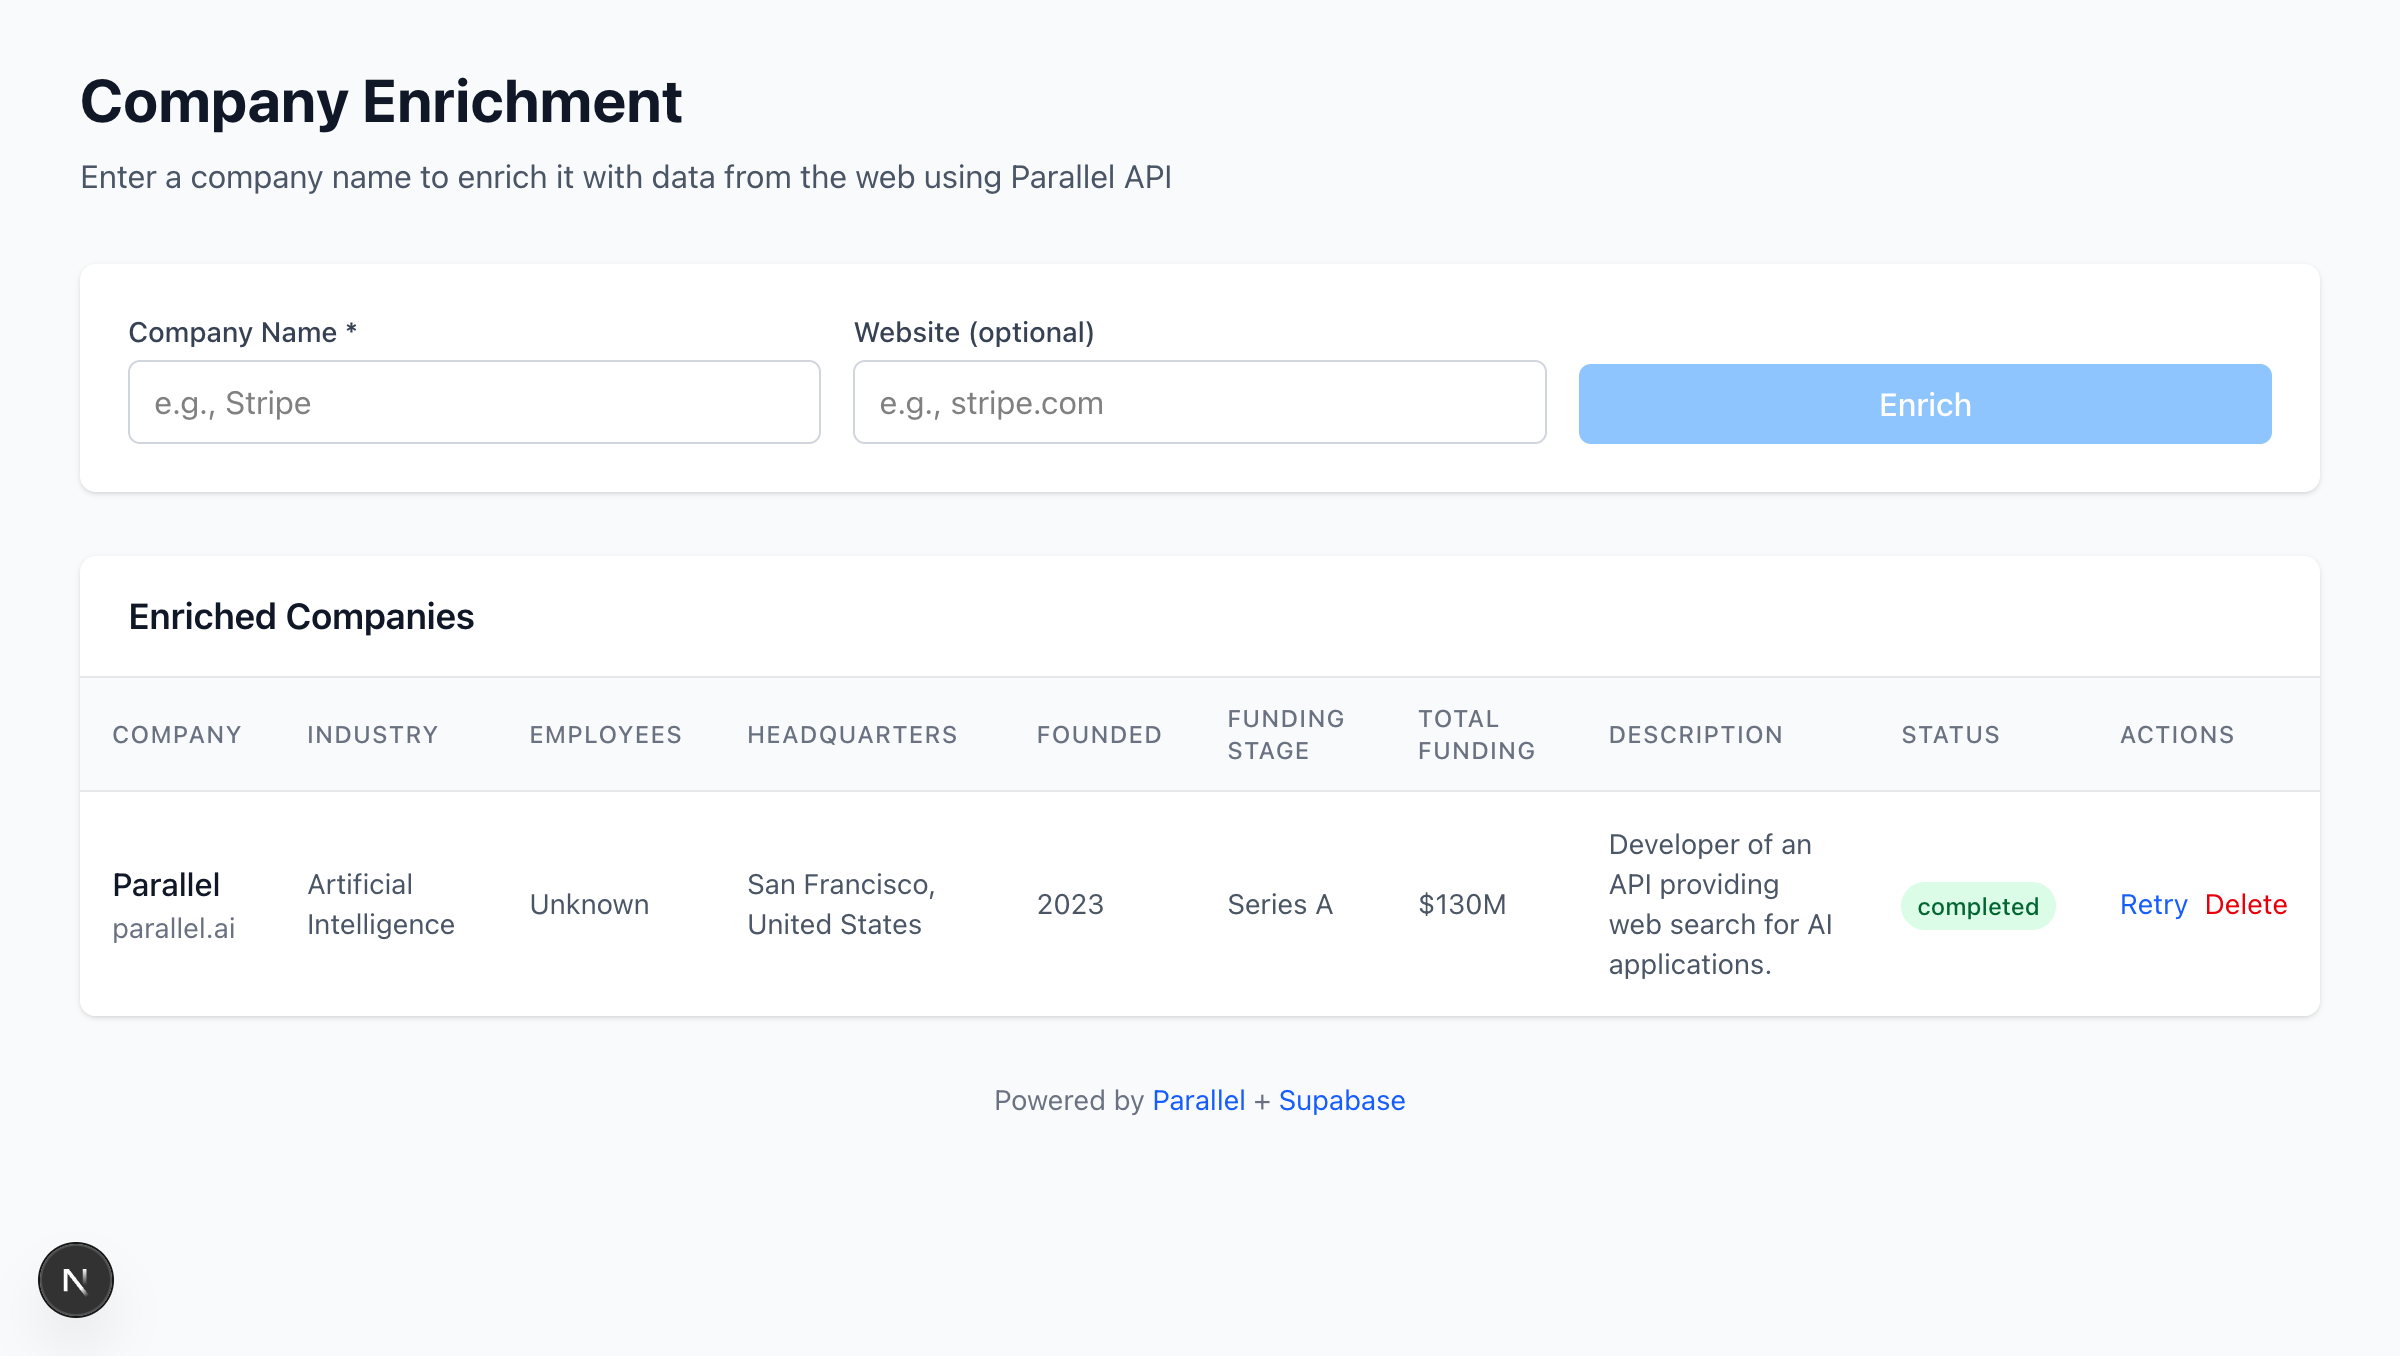
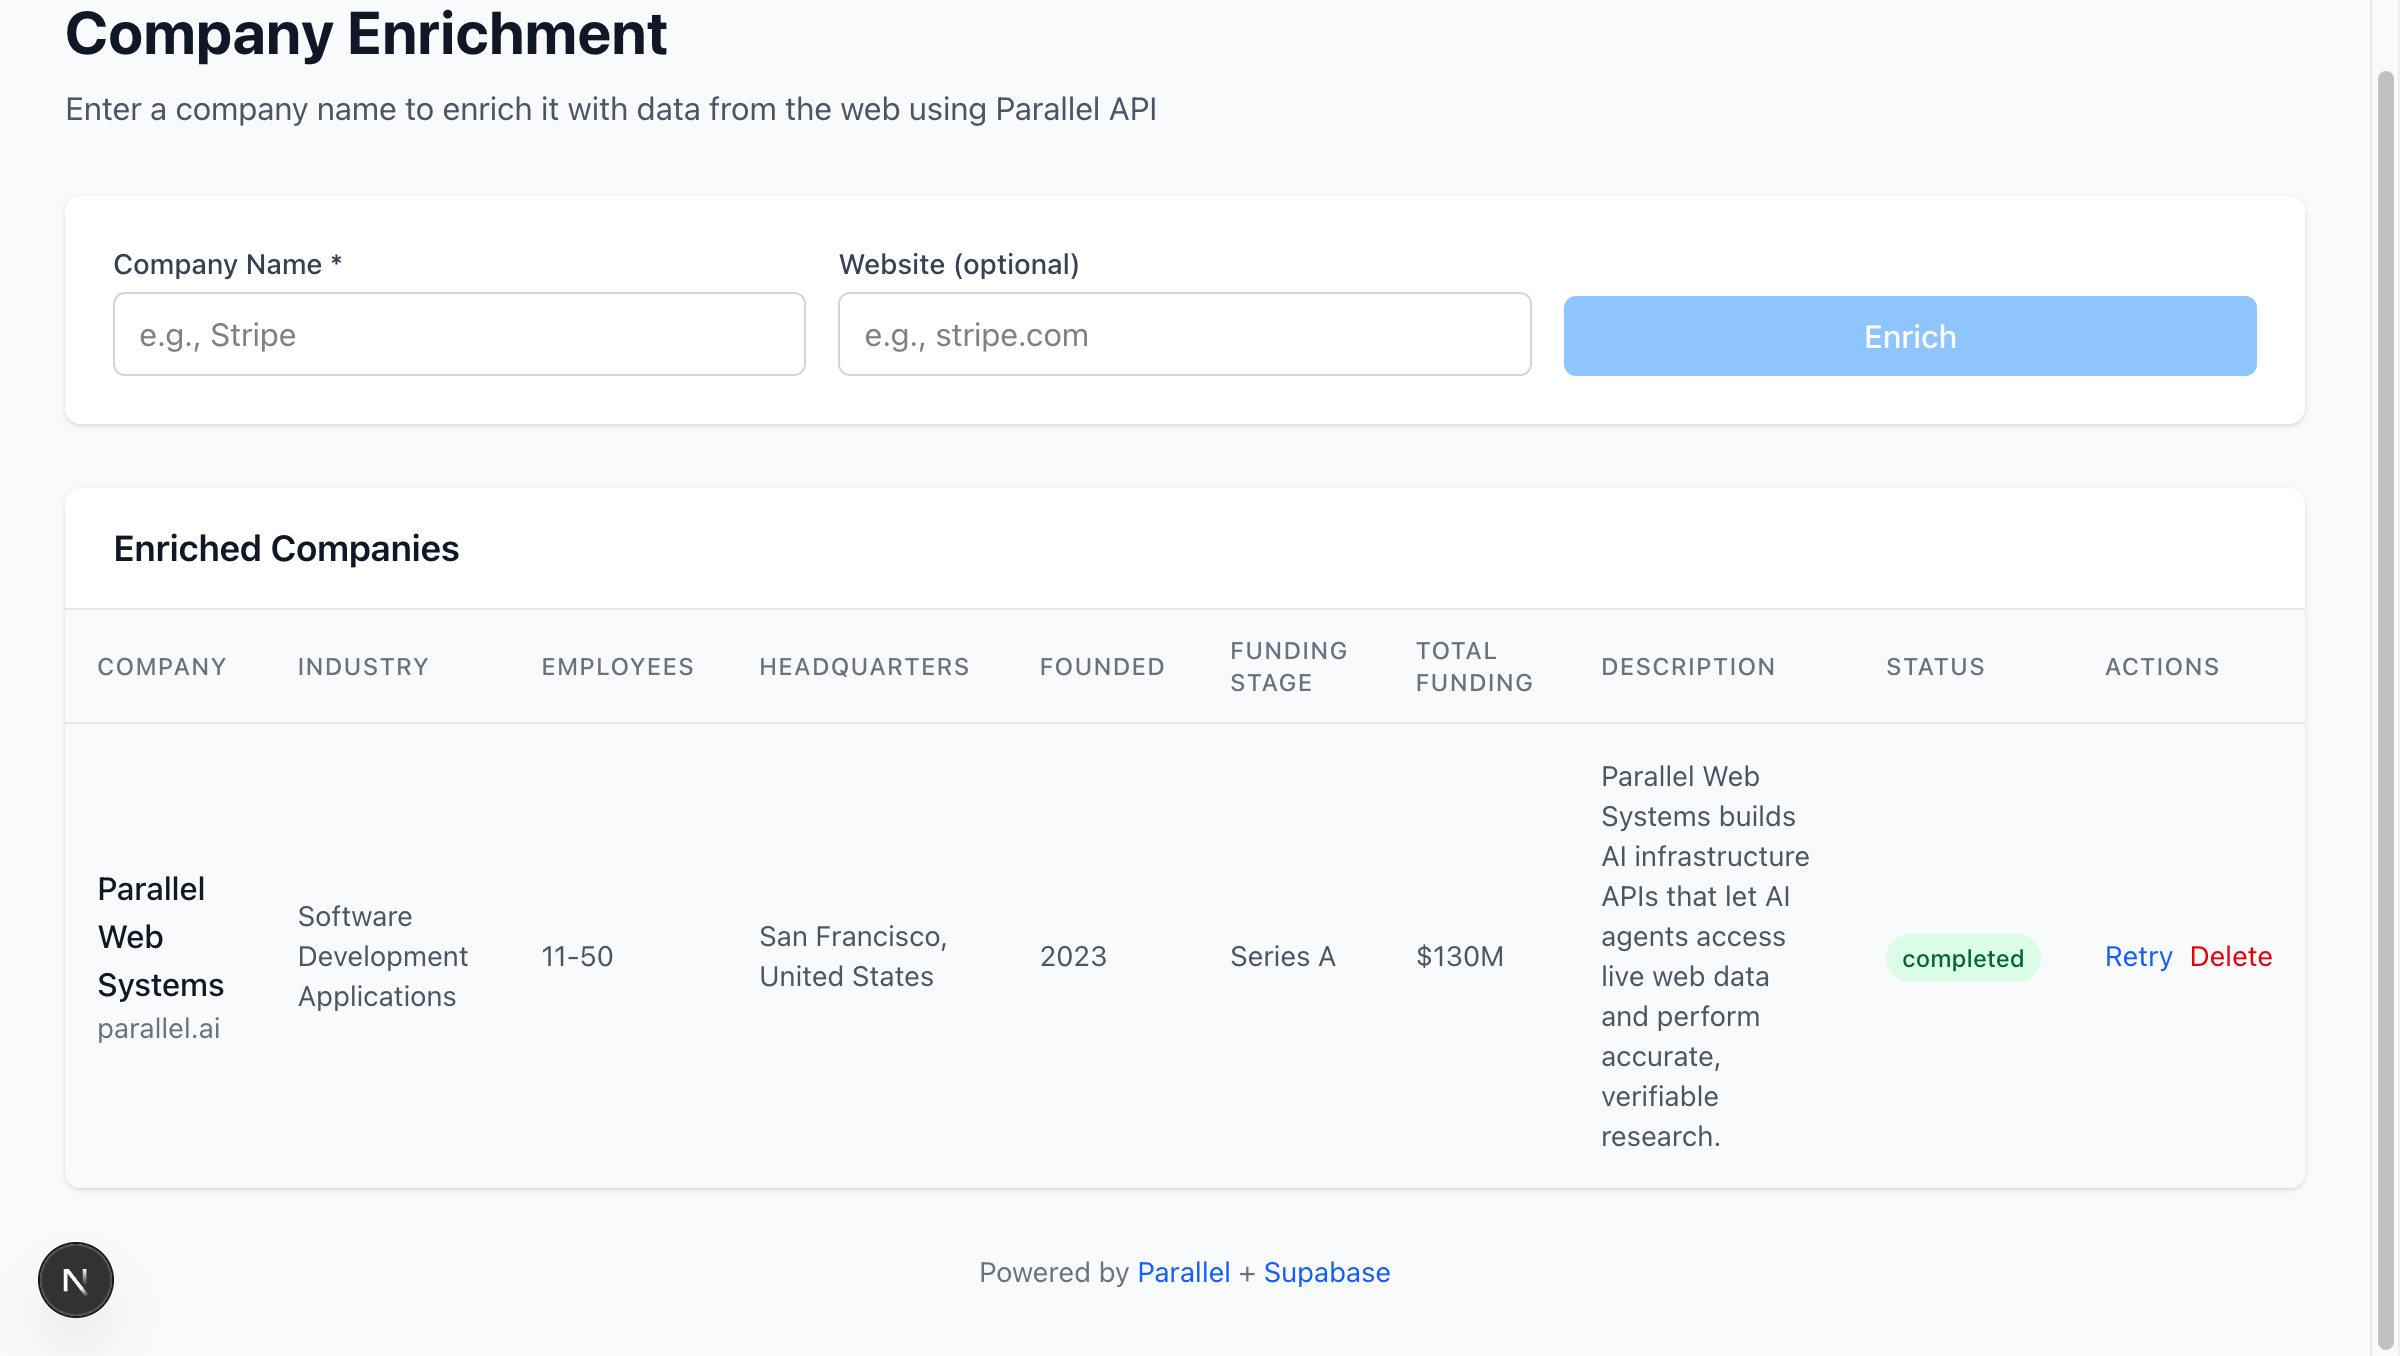
cleanup

diff --git a/typescript-recipes/parallel-supabase-enrichment/supabase/functions/enrich-company/index.ts b/typescript-recipes/parallel-supabase-enrichment/supabase/functions/enrich-company/index.ts
@@ -1,33 +1,10 @@
 import "jsr:@supabase/functions-js/edge-runtime.d.ts";
-import { createClient, SupabaseClient } from "jsr:@supabase/supabase-js@2";
 import Parallel from "npm:parallel-web@0.2.4";
-
-// CORS headers - set APP_URL secret for specific domain, or "*" for all origins
-const corsHeaders = {
-  "Access-Control-Allow-Origin": Deno.env.get("APP_URL") || "*",
-  "Access-Control-Allow-Headers":
-    "authorization, x-client-info, apikey, content-type, x-supabase-client-platform",
-};
+import { jsonResponse, handleCors } from "../_shared/response.ts";
+import { createSupabaseClient } from "../_shared/supabase.ts";
 
 const UUID_REGEX =
   /^[0-9a-f]{8}-[0-9a-f]{4}-[0-9a-f]{4}-[0-9a-f]{4}-[0-9a-f]{12}$/i;
-
-function jsonResponse(
-  body: Record<string, unknown>,
-  status = 200
-): Response {
-  return new Response(JSON.stringify(body), {
-    status,
-    headers: { ...corsHeaders, "Content-Type": "application/json" },
-  });
-}
-
-function createSupabaseClient(): SupabaseClient {
-  return createClient(
-    Deno.env.get("SUPABASE_URL")!,
-    Deno.env.get("SUPABASE_SERVICE_ROLE_KEY")!
-  );
-}
 
 /**
  * Static output schema for enrichment.
@@ -120,9 +97,8 @@ const outputSchema = {
 // -----------------------------------------------------------------------------
 
 Deno.serve(async (req) => {
-  if (req.method === "OPTIONS") {
-    return new Response("ok", { headers: corsHeaders });
-  }
+  const corsResponse = handleCors(req);
+  if (corsResponse) return corsResponse;
 
   const supabase = createSupabaseClient();
   let companyId: string | undefined;
@@ -184,8 +160,8 @@ Deno.serve(async (req) => {
         website: company.website || undefined,
       },
       // Change processor based on your speed/cost/quality needs:
-      // lite-fast, lite, base, core, pro, ultra
-      processor: "lite-fast",
+      // base-fast, base, pro-fast, pro, ultra-fast, ultra
+      processor: "base-fast",
       task_spec: {
         output_schema: {
           type: "json",

diff --git a/typescript-recipes/parallel-supabase-enrichment/supabase/functions/poll-enrichment/index.ts b/typescript-recipes/parallel-supabase-enrichment/supabase/functions/poll-enrichment/index.ts
@@ -1,23 +1,8 @@
 import "jsr:@supabase/functions-js/edge-runtime.d.ts";
-import { createClient } from "jsr:@supabase/supabase-js@2";
+import type { SupabaseClient } from "jsr:@supabase/supabase-js@2";
 import Parallel from "npm:parallel-web@0.2.4";
-
-// CORS headers - set APP_URL secret for specific domain, or "*" for all origins
-const corsHeaders = {
-  "Access-Control-Allow-Origin": Deno.env.get("APP_URL") || "*",
-  "Access-Control-Allow-Headers":
-    "authorization, x-client-info, apikey, content-type, x-supabase-client-platform",
-};
-
-function jsonResponse(
-  body: Record<string, unknown>,
-  status = 200
-): Response {
-  return new Response(JSON.stringify(body), {
-    status,
-    headers: { ...corsHeaders, "Content-Type": "application/json" },
-  });
-}
+import { jsonResponse, handleCors } from "../_shared/response.ts";
+import { createSupabaseClient } from "../_shared/supabase.ts";
 
 /**
  * Poll for enrichment results on pending tasks.
@@ -30,15 +15,11 @@ function jsonResponse(
  * https://supabase.com/docs/guides/functions/schedule-functions
  */
 Deno.serve(async (req) => {
-  if (req.method === "OPTIONS") {
-    return new Response("ok", { headers: corsHeaders });
-  }
+  const corsResponse = handleCors(req);
+  if (corsResponse) return corsResponse;
 
   try {
-    const supabase = createClient(
-      Deno.env.get("SUPABASE_URL")!,
-      Deno.env.get("SUPABASE_SERVICE_ROLE_KEY")!
-    );
+    const supabase = createSupabaseClient();
 
     const parallelApiKey = Deno.env.get("PARALLEL_API_KEY");
     if (!parallelApiKey) {
@@ -76,7 +57,7 @@ type PollResult = { id: string; status: string; error?: string };
 
 async function pollCompany(
   parallel: Parallel,
-  supabase: ReturnType<typeof createClient>,
+  supabase: SupabaseClient,
   company: { id: string; parallel_run_id: string }
 ): Promise<PollResult> {
   try {

diff --git a/typescript-recipes/parallel-supabase-enrichment/web/app/page.tsx b/typescript-recipes/parallel-supabase-enrichment/web/app/page.tsx
@@ -12,7 +12,12 @@ const STATUS_COLORS: Record<string, string> = {
 
 const POLL_INTERVAL_MS = 10000;
 
-function Spinner(): JSX.Element {
+function formatValue(value: unknown): string {
+  if (value == null || value === "null" || value === "") return "-";
+  return String(value);
+}
+
+function Spinner(): React.ReactNode {
   return (
     <svg className="animate-spin h-3 w-3 mr-1" viewBox="0 0 24 24">
       <circle
@@ -33,7 +38,7 @@ function Spinner(): JSX.Element {
   );
 }
 
-export default function Home(): JSX.Element {
+export default function Home(): React.ReactNode {
   const [companies, setCompanies] = useState<Company[]>([]);
   const [companyName, setCompanyName] = useState("Parallel Web Systems");
   const [website, setWebsite] = useState("parallel.ai");
@@ -52,7 +57,9 @@ export default function Home(): JSX.Element {
       )
       .subscribe();
 
-    // Poll for long-running tasks
+    // Poll for tasks that exceed the Edge Function timeout (50s).
+    // Realtime handles most updates instantly, but long-running enrichments
+    // may still be processing on Parallel's side after the function returns.
     const pollInterval = setInterval(() => {
       fetch("/api/poll", { method: "POST" }).catch((err) =>
         console.error("Poll error:", err)
@@ -260,7 +267,7 @@ export default function Home(): JSX.Element {
                           key={field.key}
                           className="px-4 py-4 text-sm text-gray-600"
                         >
-                          {String(company.enriched_data?.[field.key] || "-")}
+                          {formatValue(company.enriched_data?.[field.key])}
                         </td>
                       ))}
                       <td className="px-4 py-4">

diff --git a/typescript-recipes/parallel-supabase-enrichment/web/lib/supabase-edge.ts b/typescript-recipes/parallel-supabase-enrichment/web/lib/supabase-edge.ts
@@ -1,0 +1,48 @@
+/**
+ * Helper for calling Supabase Edge Functions from Next.js API routes.
+ *
+ * This module centralizes the configuration and error handling for
+ * server-to-server calls to Supabase Edge Functions.
+ */
+import { NextResponse } from "next/server";
+
+const SUPABASE_URL = process.env.NEXT_PUBLIC_SUPABASE_URL;
+const SUPABASE_SECRET_KEY = process.env.SUPABASE_SECRET_KEY;
+
+type EdgeFunctionOptions = {
+  functionName: string;
+  body?: unknown;
+};
+
+/**
+ * Call a Supabase Edge Function with proper authentication.
+ *
+ * Returns the response data and status, or an error response if configuration
+ * is missing or the request fails.
+ */
+export async function callEdgeFunction({
+  functionName,
+  body,
+}: EdgeFunctionOptions): Promise<NextResponse> {
+  if (!SUPABASE_URL || !SUPABASE_SECRET_KEY) {
+    return NextResponse.json(
+      { error: "Missing Supabase configuration" },
+      { status: 500 }
+    );
+  }
+
+  const response = await fetch(
+    `${SUPABASE_URL}/functions/v1/${functionName}`,
+    {
+      method: "POST",
+      headers: {
+        "Content-Type": "application/json",
+        Authorization: `Bearer ${SUPABASE_SECRET_KEY}`,
+      },
+      body: body ? JSON.stringify(body) : undefined,
+    }
+  );
+
+  const data = await response.json();
+  return NextResponse.json(data, { status: response.status });
+}

diff --git a/typescript-recipes/parallel-supabase-enrichment/web/app/api/enrich/route.ts b/typescript-recipes/parallel-supabase-enrichment/web/app/api/enrich/route.ts
@@ -1,38 +1,12 @@
 import { NextResponse } from "next/server";
-
-const SUPABASE_URL = process.env.NEXT_PUBLIC_SUPABASE_URL;
-const SUPABASE_SECRET_KEY = process.env.SUPABASE_SECRET_KEY;
+import { callEdgeFunction } from "@/lib/supabase-edge";
 
 export async function POST(request: Request) {
-  if (!SUPABASE_URL || !SUPABASE_SECRET_KEY) {
-    return NextResponse.json(
-      { error: "Missing Supabase configuration" },
-      { status: 500 }
-    );
-  }
-
+  let body;
   try {
-    const body = await request.json();
-
-    const response = await fetch(
-      `${SUPABASE_URL}/functions/v1/enrich-company`,
-      {
-        method: "POST",
-        headers: {
-          "Content-Type": "application/json",
-          Authorization: `Bearer ${SUPABASE_SECRET_KEY}`,
-        },
-        body: JSON.stringify(body),
-      }
-    );
-
-    const data = await response.json();
-    return NextResponse.json(data, { status: response.status });
-  } catch (error) {
-    console.error("Enrich API error:", error);
-    return NextResponse.json(
-      { error: "Failed to enrich company" },
-      { status: 500 }
-    );
+    body = await request.json();
+  } catch {
+    return NextResponse.json({ error: "Invalid JSON" }, { status: 400 });
   }
+  return callEdgeFunction({ functionName: "enrich-company", body });
 }

diff --git a/typescript-recipes/parallel-supabase-enrichment/web/app/api/poll/route.ts b/typescript-recipes/parallel-supabase-enrichment/web/app/api/poll/route.ts
@@ -1,35 +1,5 @@
-import { NextResponse } from "next/server";
-
-const SUPABASE_URL = process.env.NEXT_PUBLIC_SUPABASE_URL;
-const SUPABASE_SECRET_KEY = process.env.SUPABASE_SECRET_KEY;
+import { callEdgeFunction } from "@/lib/supabase-edge";
 
 export async function POST() {
-  if (!SUPABASE_URL || !SUPABASE_SECRET_KEY) {
-    return NextResponse.json(
-      { error: "Missing Supabase configuration" },
-      { status: 500 }
-    );
-  }
-
-  try {
-    const response = await fetch(
-      `${SUPABASE_URL}/functions/v1/poll-enrichment`,
-      {
-        method: "POST",
-        headers: {
-          "Content-Type": "application/json",
-          Authorization: `Bearer ${SUPABASE_SECRET_KEY}`,
-        },
-      }
-    );
-
-    const data = await response.json();
-    return NextResponse.json(data, { status: response.status });
-  } catch (error) {
-    console.error("Poll API error:", error);
-    return NextResponse.json(
-      { error: "Failed to poll enrichment" },
-      { status: 500 }
-    );
-  }
+  return callEdgeFunction({ functionName: "poll-enrichment" });
 }

diff --git a/typescript-recipes/parallel-supabase-enrichment/supabase/functions/_shared/response.ts b/typescript-recipes/parallel-supabase-enrichment/supabase/functions/_shared/response.ts
@@ -1,0 +1,33 @@
+/**
+ * Shared response utilities for Supabase Edge Functions.
+ */
+
+// CORS headers - set APP_URL secret for specific domain, or "*" for all origins
+export const corsHeaders = {
+  "Access-Control-Allow-Origin": Deno.env.get("APP_URL") || "*",
+  "Access-Control-Allow-Headers":
+    "authorization, x-client-info, apikey, content-type, x-supabase-client-platform",
+};
+
+/**
+ * Create a JSON response with CORS headers.
+ */
+export function jsonResponse(
+  body: Record<string, unknown>,
+  status = 200
+): Response {
+  return new Response(JSON.stringify(body), {
+    status,
+    headers: { ...corsHeaders, "Content-Type": "application/json" },
+  });
+}
+
+/**
+ * Handle CORS preflight requests.
+ */
+export function handleCors(req: Request): Response | null {
+  if (req.method === "OPTIONS") {
+    return new Response("ok", { headers: corsHeaders });
+  }
+  return null;
+}

diff --git a/typescript-recipes/parallel-supabase-enrichment/supabase/functions/_shared/supabase.ts b/typescript-recipes/parallel-supabase-enrichment/supabase/functions/_shared/supabase.ts
@@ -1,0 +1,15 @@
+/**
+ * Shared Supabase client utilities for Edge Functions.
+ */
+import { createClient, SupabaseClient } from "jsr:@supabase/supabase-js@2";
+
+/**
+ * Create a Supabase client with service role credentials.
+ * Use this for server-side operations that need full database access.
+ */
+export function createSupabaseClient(): SupabaseClient {
+  return createClient(
+    Deno.env.get("SUPABASE_URL")!,
+    Deno.env.get("SUPABASE_SERVICE_ROLE_KEY")!
+  );
+}

diff --git a/typescript-recipes/parallel-supabase-enrichment/README.md b/typescript-recipes/parallel-supabase-enrichment/README.md
@@ -2,7 +2,7 @@
 
 Build a real-time data enrichment pipeline using [Supabase Edge Functions](https://supabase.com/docs/guides/functions) and [Parallel's Task API](https://docs.parallel.ai/task-api/task-quickstart).
 
-This cookbook demonstrates how to create a Clay-like experience where users input minimal data (e.g., company names) and get back enriched information automatically.
+This cookbook demonstrates how to create a data enrichment experience where users input minimal data (e.g., company names) and get back enriched information automatically.
 
 ![Screenshot](screenshot.png)
 
@@ -155,6 +155,8 @@ parallel-supabase-enrichment/
 
 The enrichment schema is defined in the Edge Function. To change what data gets enriched:
 
+> **Important**: When you modify `outputSchema` in the Edge Function, also update `ENRICHMENT_FIELDS` in `web/lib/supabase.ts` to display the new columns in the table.
+
 ### Option 1: Static Schema (Simpler)
 
 Edit `supabase/functions/enrich-company/index.ts`:
@@ -193,7 +195,7 @@ The Edge Function will automatically build the schema from these definitions.
 
 ### Parallel Processors
 
-The Edge Function uses `lite-fast` by default. See [processor options](https://docs.parallel.ai/task-api/guides/choose-a-processor) and [pricing](https://docs.parallel.ai/resources/pricing) to choose the right one for your use case.
+The Edge Function uses `base-fast` by default. See [processor options](https://docs.parallel.ai/task-api/guides/choose-a-processor) and [pricing](https://docs.parallel.ai/resources/pricing) to choose the right one for your use case.
 
 ```typescript
 const taskRun = await parallel.taskRun.create({
